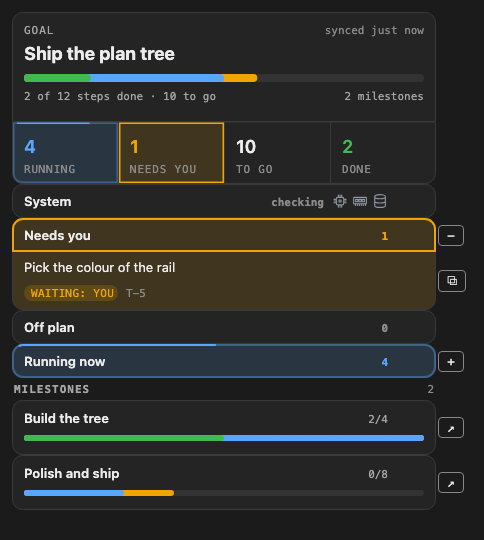
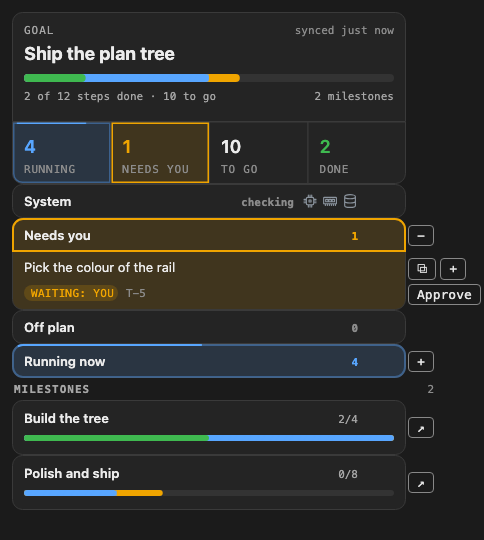
0.26.65: Needs-you rows get copy, expand and Approve buttons

diff --git a/hooks/register.tsx b/hooks/register.tsx
@@ -2370,6 +2370,8 @@ async function setPresence($: EngineInterface, mode: 'active' | 'away'): Promise
   return autopilotWord(false) + ': ' + (n > 0 ? n + ' entr' + (n === 1 ? 'y' : 'ies') + ' in the away log (open /cockpit)' : 'nothing in the away log')
 }
 
+export const approveText = (a: { id: string; ask: string; title: string }): string => /\bpush(ed|ing)?\b/i.test(a.ask + ' ' + a.title) ? 'push' : 'approve' + (a.id !== '' ? ' ' + a.id : ': ' + a.title)
+
 // Telling the captain (the session running in this pane). The mods API has a supported way: `$.prompt.submit({ text, asUser: true })` submits the
 // text as the person's own words (read bare, no "plugin sent a message" frame; the transcript still names the plugin); it runs as a turn of its own
 // once the session is idle, or queues behind the running one. If the host refuses or fails, the instruction is appended to
@@ -3124,8 +3126,10 @@ export function paneSvgTree($: EngineInterface, kit: Kit, bodyColumns: number, b
     const sideCol = (key: string, button: unknown, tall = false): unknown => button === null ? null : Box({ key: 'tog-' + key, position: 'absolute', top: 0, ...(tall ? { height: 2 } : { bottom: 0 }), right: 2, flexDirection: 'row', alignItems: 'center', children: [button] })
     const toggle = (key: string, isOpen: boolean, flag: string): unknown => sideCol(key, Button({ key: 'sec-' + key, label: isOpen ? '-' : '+', onPress: () => flip(flag) }))
     // Running and Waiting rows carry a copy button (and, when there is a note, the +/-) in one ACT_COLS column, so their cards are narrower by the same amount.
-    const wA = wL
+    const wA = wL - 30
     const copyBtn = (rid: string): unknown => rid === '' ? null : Button({ key: 'cp-' + rid, label: '\u29c9', onPress: press => { void $.ui.copy({ text: rid, surface: press.surface }).then(res => $.ui.toast(res.isCopied ? 'Copied ' + rid : 'Could not copy ' + rid + ': select the ID and copy it by hand')) } })
+    // Approve answers the ask in the person's own words: "push" when the ask is about pushing local commits, otherwise "approve <ID>".
+    const approveBtn = (a: { id: string; ask: string; title: string }): unknown => Button({ key: 'ap-' + (a.id || a.title.slice(0, 20)), label: 'Approve', onPress: () => { void sendToCaptain($, approveText(a)) } })
     const actCol = (key: string, btns: unknown[], tall = false): unknown => btns.every(b => b === null) ? null : Box({ key: 'tog-act-' + key, position: 'absolute', top: 0, ...(tall ? { height: 2 } : { bottom: 0 }), right: 2, flexDirection: 'row', alignItems: 'center', children: btns.filter(b => b !== null) })
     const toggleBtn = (key: string, isOpen: boolean, flag: string): unknown => Button({ key: 'sec-' + key, label: isOpen ? '-' : '+', onPress: () => flip(flag) })
     const put2 = (key: string, svg: string, alt: string, h: number, side: unknown = null, w = wL): void => {
@@ -3141,7 +3145,7 @@ export function paneSvgTree($: EngineInterface, kit: Kit, bodyColumns: number, b
     const needs = cardOf('needs')
     const asks = needs === undefined ? [] : waitingItems(v.waiting, youLines)
     {
-      const wF = wL
+      const wF = wL - 30
       const gap = (key: string): void => planBlocks.push({ key, el: Box({ key, height: 1, children: [] }), h: 1 })
       const t = titleCardSvg(wF, { title: v.milestone === '' ? 'Plan' : v.milestone, done: v.doneN, planned: v.planned, milestones: v.groups.length, synced: syncedText(v.updatedMs, now), running: shownPlan.running.length, needs: asks.length, joined: planUndo === null })
       planBlocks.push({ key: 'status-row', el: Box({ key: 'status-row', flexDirection: 'row', alignItems: 'center', children: [draw('svg-status', t.svg, planAlt(shownPlan), t.height, wF)] }), h: t.height })
@@ -3178,8 +3182,10 @@ export function paneSvgTree($: EngineInterface, kit: Kit, bodyColumns: number, b
         put2('wait-card', wait.svg, 'Needs you ' + asks.length + (waitOpen ? ' (open)' : ' (closed)'), wait.height, actCol('wait-card', [toggleBtn('wait-card', waitOpen, 'ls-wait')]), wA)
         if (waitOpen) {
           asks.forEach((a, i) => {
-            const d = stepRowSvg(wA, { owner: 'you', title: a.title, id: a.id, note: a.ask, label: 'waiting: you', cls: 'warnc', time: '', open: false, dim: false, shell: { rt: 0, rb: i === asks.length - 1 ? 10 : 0, first: false } })
-            put2('wait-' + (a.id || i), d.svg, a.title + (a.id !== '' ? ' (' + a.id + ')' : ''), d.height, actCol('wait-' + (a.id || i), [copyBtn(a.id)], true), wA)
+            const af = 'pw-' + (a.id !== '' ? a.id : a.title.slice(0, 40)).replace(/[^A-Za-z0-9._-]/g, '_')
+            const aOpen = isSectionOpen(ui.sections, af)
+            const d = stepRowSvg(wA, { owner: 'you', title: a.title, id: a.id, note: a.ask, label: 'waiting: you', cls: 'warnc', time: '', open: aOpen, dim: false, shell: { rt: 0, rb: i === asks.length - 1 ? 10 : 0, first: false } })
+            put2('wait-' + (a.id || i), d.svg, a.title + (a.id !== '' ? ' (' + a.id + ')' : ''), d.height, Box({ key: 'tog-act-wait-' + (a.id || i), position: 'absolute', top: 0, bottom: 0, right: 2, flexDirection: 'column', justifyContent: 'center', alignItems: 'flex-end', children: [Box({ key: 'tog-act-wait-r1-' + (a.id || i), flexDirection: 'row', children: [copyBtn(a.id), a.ask === '' ? null : toggleBtn('wait-' + (a.id || i), aOpen, af)].filter(b => b !== null) }), approveBtn(a)] }), wA)
           })
         }
       } else {
@@ -3246,7 +3252,7 @@ export function paneSvgTree($: EngineInterface, kit: Kit, bodyColumns: number, b
       planBlocks.push({ key: 'mile-tabs', el: Box({ key: 'mile-tabs', flexDirection: 'row', paddingX: 1, columnGap: 1, children: [tabBtn('open', 'Open'), tabBtn('done', 'Done'), tabBtn('all', 'All')] }), h: ROW_PX * 1.5 })
       gapH('gap-mile-tabs')
       const rows = grp.rows.filter(r => mileTab === 'all' || (mileTab === 'done' ? r.state === 'done' : r.state !== 'done'))
-      const wB = wL
+      const wB = wL - 30
       const md = mileCardSvg(wB, { title: drilled.title, done: grp.done, total: grp.total, running: rows.filter(r => r.state === 'running').length, needs: rows.filter(r => r.state === 'blocked' && r.onYou).length, shell: rows.length > 0 ? { rt: 10, rb: 0, first: true } : ALONE })
       put2('mp-card', md.svg, drilled.title + ': ' + drilled.countText, md.height, actCol('mp-card', []), wB)
       if (rows.length === 0) line2('mp-empty', mileTab === 'done' ? 'Nothing done yet' : mileTab === 'open' ? 'Nothing open' : 'No steps yet', 'm')

diff --git a/tests/cockpit51-approve.test.ts b/tests/cockpit51-approve.test.ts
@@ -1,0 +1,11 @@
+import { expect, test } from 'bun:test'
+import { approveText } from '../hooks/register'
+
+test('Approve sends "push" when the ask is about a push', () => {
+  expect(approveText({ id: 'T-5', ask: 'OK to push the local commits?', title: 'Land it' })).toBe('push')
+})
+
+test('Approve names the item when the ask is not about a push', () => {
+  expect(approveText({ id: 'T-7', ask: 'Pick a colour', title: 'Rail' })).toBe('approve T-7')
+  expect(approveText({ id: '', ask: 'Pick a colour', title: 'Rail' })).toBe('approve: Rail')
+})

diff --git a/docs/CHANGELOG.md b/docs/CHANGELOG.md
@@ -1,5 +1,9 @@
 # Changelog
 
+## 0.26.65
+
+- Needs-you rows get a copy button, a +/- button that shows the ask, and an Approve button that sends "push" to the captain when the ask is about a push, else "approve <ID>".
+
 ## 0.26.64
 
 - README: removed the System card picture, which showed an old look.
